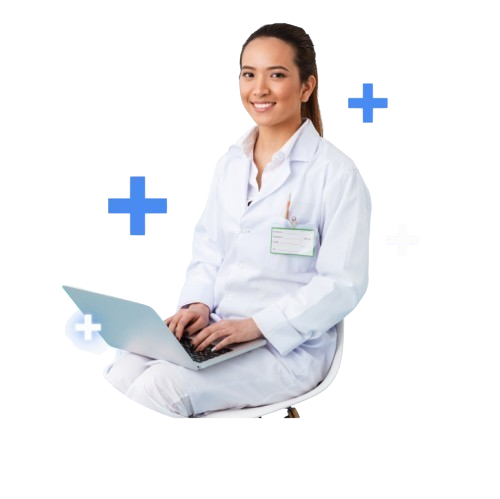
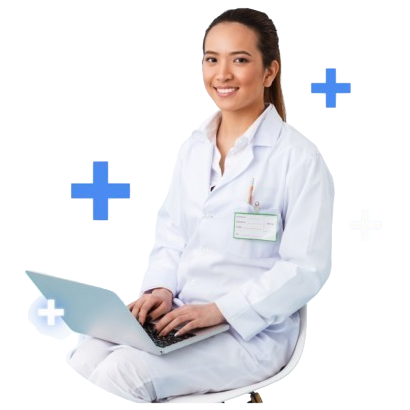
fix bug dashboard

diff --git a/app/dashboard/page.jsx b/app/dashboard/page.jsx
@@ -62,9 +62,9 @@ export default function Dashboard() {
     return (
         <Layout>
             <div className={`flex flex-col items-center w-full h-full ${poppins.className}`}>
-                <div className="flex flex-col lg:flex-row items-center px-4 lg:px-20">
+                <div className="flex flex-col lg:flex-row items-center px-4 lg:px-10 gap-5">
                     {/* Health Solutions Section */}
-                    <div className="w-fit lg:w-10/12 rounded-xl pb-10 relative text-md lg:text-xs xl:text-lg h-full">
+                    <div className="w-fit lg:w-full rounded-xl pb-10 relative text-md lg:text-xs xl:text-lg h-full">
                         <h2 className="text-xl font-semibold">Solusi Kesehatan Mental Anda</h2><br></br>
                         <p>Stres tidak selalu buruk. Dalam jangka pendek, stres bisa memotivasi kita</p>
                         <p>untuk menyelesaikan tugas atau tantangan. Namun, stres jangka panjang</p>
@@ -77,15 +77,15 @@ export default function Dashboard() {
                         <p>kehilangan minat terhadap hal-hal yang biasa disukai, penting untuk mencari bantuan ahli.</p>
                         <p className="mb-6"></p>
                         <div className="flex flex-col lg:flex-row mt-16 w-full gap-4">
-                            <div className="flex w-auto h-auto gap-6 lg:gap-2 lg:w-7/12 lg:h-full justify-center lg:justify-normal">
+                            <div className="flex w-auto h-auto gap-6 lg:gap-4 lg:w-8/12 lg:h-full justify-center lg:justify-normal">
                                 <Link href='/consulting'>
-                                    <div className="flex flex-col items-center p-4 bg-white rounded shadow hover:bg-gray-100 cursor-pointer">
+                                    <div className="flex flex-1 flex-col items-center p-4 bg-white rounded shadow hover:bg-gray-100 cursor-pointer">
                                         <Image src="/icons/Icon Terapis.png" alt="Chat dengan Dokter" width={110} height={100} className="w-auto h-auto border-solid rounded" />
                                         <span className="mt-2 text-center">Konsultasi</span>
                                     </div>
                                 </Link>
                                 <Link href='/therapist'>
-                                    <div className="flex flex-col items-center p-4 bg-white rounded shadow hover:bg-gray-100 cursor-pointer">
+                                    <div className="flex flex-1 flex-col items-center p-4 bg-white rounded shadow hover:bg-gray-100 cursor-pointer">
                                         <Image src="/icons/Icon Konsultasi.png" alt="Toko Kesehatan" width={110} height={100} className="w-auto h-auto border-solid rounded" />
                                         <span className="mt-2 text-center">Terapis</span>
                                     </div>
@@ -93,11 +93,11 @@ export default function Dashboard() {
                             </div>
                             <div className="flex flex-col bg-white rounded shadow cursor-pointer w-auto lg:w-full h-fit">
                                 <div className="font-semibold text-lg lg:text-sm mb-2 text-center">Bagaimana Perasaan Kamu Hari ini?</div>
-                                <div className="grid grid-cols-3 lg:flex gap-3 bg-primary-50 p-2 rounded-lg w-full mx-auto justify-center">
+                                <div className="grid grid-cols-3 lg:flex gap-2 bg-primary-50 p-2 rounded-lg w-full mx-auto justify-center">
                                     {MOODS_LIST.map((item, index) => (
                                         <div
                                             key={index}
-                                            className={`flex flex-col w-auto lg:w-14 xl:w-20 items-center gap-1 font-semibold p-1 rounded-lg cursor-pointer hover:bg-primary-50 transform transition duration-300 ${moodColors[item.name]}`}
+                                            className={`flex flex-col w-auto lg:w-full xl:w-20 items-center gap-1 font-semibold p-1 rounded-lg cursor-pointer hover:bg-primary-50 transform transition duration-300 ${moodColors[item.name]}`}
                                             onClick={() => handleMoodClick(item)}
                                         >
                                             <Image
@@ -126,7 +126,7 @@ export default function Dashboard() {
                                 alt="Background"
                                 width={1202}
                                 height={1000}
-                                className="lg:max-w-md bg-transparent"
+                                className="lg:max-w-sm bg-transparent"
                             />
                         </div>
                     </div>

diff --git a/components/elements/MobileNav.jsx b/components/elements/MobileNav.jsx
@@ -18,28 +18,19 @@ const MobileNav = ({ user }) => {
                 <SheetTrigger className="align-middle">
                     <FontAwesomeIcon icon={faBars} size="xl" />
                 </SheetTrigger>
-                <SheetContent className="flex flex-col gap-6 bg-white lg:hidden space">
-                    <div className="flex w-full justify-between items-start">
-                        <Image
-                            src="/images/logo.png"
-                            alt="Logo"
-                            width={50}
-                            height={50}
-                            className="size-12"
-                        />
-                        <div className='flex flex-col gap-3 items-center'>
-                            <Link href='/account'>
-                                <Image
-                                    src={user?.myfiles ? user.myfiles : "/icons/user.png"}
-                                    alt='logo image'
-                                    width={45}
-                                    height={45}
-                                    priority={true}
-                                    className="rounded-full w-[30px] h-[20px] object-cover border-solid"
-                                />
-                            </Link>
-                            <h5 className="font-semibold gap-3">Hi, {user?.username}!</h5>
-                        </div>
+                <SheetContent className="flex flex-col gap-4 bg-white lg:hidden space">
+                    <div className='flex items-center gap-5 mt-5'>
+                        <Link href='/account'>
+                            <Image
+                                src={user?.myfiles ? user.myfiles : "/icons/user.png"}
+                                alt='logo image'
+                                width={45}
+                                height={45}
+                                priority={true}
+                                className="rounded-full sized-10 object-cover border-solid"
+                            />
+                        </Link>
+                        <h5 className="font-semibold gap-3 text-md">Hi,<br/>{user?.username}!</h5>
                     </div>
                     <Separator className="border border-gray-50" />
                     <NavItems />

diff --git a/components/layouts/Layouts.js b/components/layouts/Layouts.js
@@ -15,7 +15,7 @@ const Layout = ({ children, path=null }) => {
     return (
         <main className={`w-full select-none overflow-y-auto ${poppins.className}`}>
             <Navbar/>
-            <section className={`flex flex-1 ${path !== 'avatar' ? 'pt-[50px] px-4 md:px-10' : null} w-full h-full`}>{children}</section>
+            <section className={`flex flex-col ${path !== 'avatar' ? 'pt-[50px] px-4 md:px-10' : null} w-full h-full`}>{children}</section>
         </main>
     )
 }
